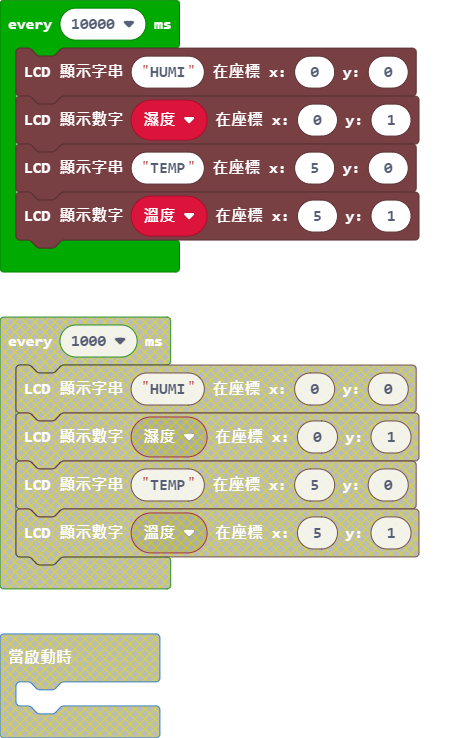
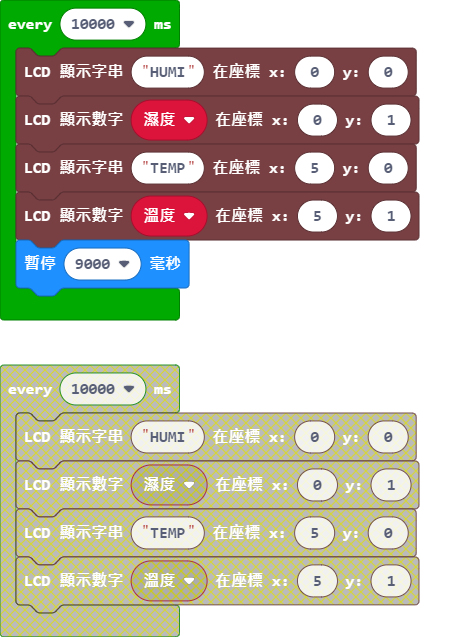
更新 main.blocks, main.ts

diff --git a/main.ts b/main.ts
@@ -5,6 +5,7 @@ loops.everyInterval(10000, function () {
     lcd1602.putNumber(濕度, 0, 1)
     lcd1602.putString("TEMP", 5, 0)
     lcd1602.putNumber(溫度, 5, 1)
+    basic.pause(9000)
 })
 basic.forever(function () {
     lcd1602.setAddress(
